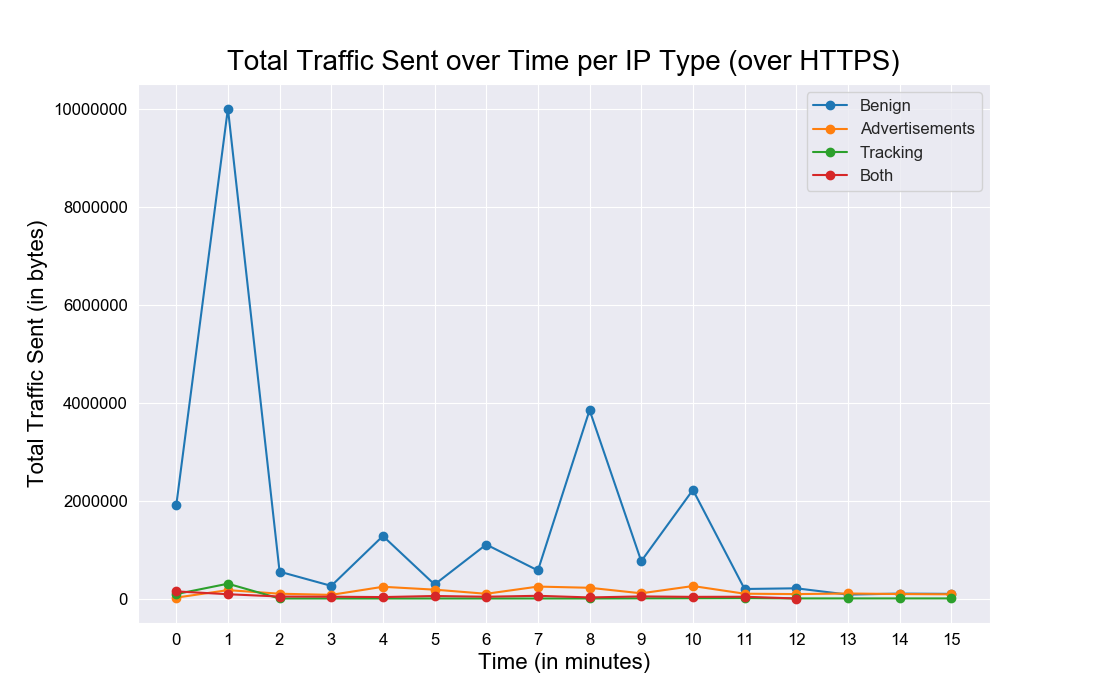
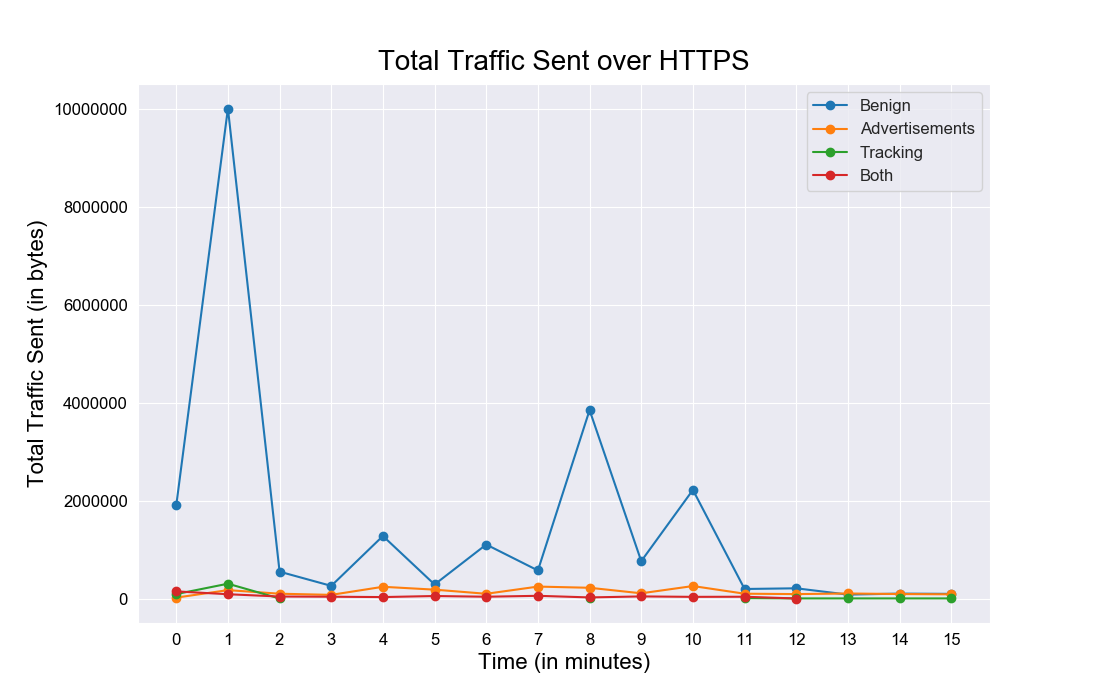
wow actually doing things

diff --git a/pandas_analysis_v2.py b/pandas_analysis_v2.py
@@ -18,6 +18,50 @@ label_font = {'fontname': 'Arial', 'size': '12', 'color': 'black', 'weight': 'no
 #                HTTPS STUFF               #
 ############################################
 
+def distribute_time(all_dfs):
+    all_times = []
+    for df in all_dfs:
+        all_times += list(df["Time"])
+    
+    all_times = sorted(list(dict.fromkeys(all_times)))
+    start = p.to_datetime(min(all_times))
+    end = p.to_datetime(max(all_times))
+    times = []
+    while(start <= end):
+        times.append(start.strftime("%H:%M"))
+        start = start + p.Timedelta(minutes=1)
+
+    time_range = p.DataFrame({'Time': times})
+    cleaned = []
+    for frame in all_dfs:
+        clean = p.concat([time_range, frame], join="outer", sort=False)
+        clean.drop_duplicates(subset=['Time'], keep='last', inplace=True)
+        clean.sort_values(by=['Time'], inplace = True)
+        clean = clean.reset_index().drop('index', axis=1)
+        cleaned.append(clean)
+    return cleaned
+
+def get_all_dfs(dataset, column):
+    service_types = list(dataset[column].index.levels[0])
+    all_dfs   = []
+    if 'benign' in service_types:
+        benign = dataset[column]['benign'].reset_index().rename(columns={
+            column: "Benign"})
+        all_dfs.append(benign)
+    if 'ads' in service_types:
+        ads = dataset[column]['ads'].reset_index().rename(
+            columns={column: "Advertisements"})
+        all_dfs.append(ads)
+    if 'tracking' in service_types:
+        tracking = dataset[column]['tracking'].reset_index().rename(columns={
+            column: "Tracking"})
+        all_dfs.append(tracking)
+    if 'ads,tracking' in service_types:
+        both = dataset[column]['ads,tracking'].reset_index().rename(columns={
+            column: "Both"})
+        all_dfs.append(both)
+    return all_dfs
+
 def ips_over_time(path, sheet, app_name):
     df = p.read_excel(path, index_col=None, sheet_name=sheet)
     df['timestamp'] = p.to_datetime(df['timestamp'], unit='s')
@@ -30,30 +74,19 @@ def ips_over_time(path, sheet, app_name):
         dataset = dataset.to_frame()
 
         fig, ax = plt.subplots(figsize=(11, 7))
-
-        benign = dataset[column]['benign'].reset_index().rename(columns={
-            column: "Benign"})
-        ax.plot(benign["Time"], benign["Benign"], '-o')
-
-        ads = dataset[column]['ads'].reset_index().rename(
-            columns={column: "Advertisements"})
-        ax.plot(ads["Time"], ads["Advertisements"], '-o')
-
-        tracking = dataset[column]['tracking'].reset_index().rename(columns={
-            column: "Tracking"})
-        ax.plot(tracking["Time"], tracking["Tracking"], '-o')
-
         service_types = list(dataset[column].index.levels[0])
-        if 'ads,tracking' in service_types:
-            both = dataset[column]['ads,tracking'].reset_index().rename(columns={
-                column: "Both"})
-            ax.plot(both["Time"], both["Both"], '-o')
+        all_dfs = get_all_dfs(dataset, column)
+        cleaned = distribute_time(all_dfs)
+        for frame in cleaned:
+            type = frame[frame.columns[1]].name
+            ax.plot(frame['Time'], frame[type], '-o')
 
         ax.set_xticklabels(range(0, 16))
-        plt.xticks(np.arange(len(benign["Time"])), **label_font)
+        # plt.xticks(np.arange(len(benign["Time"])), **label_font)
+        plt.xticks(**label_font)
         plt.yticks(**label_font)
         plt.title(
-            "Total Number of Unique IP Requests over Time over HTTPS", **title_font)
+            "Total Number of Unique IP Requests over HTTPS", **title_font)
         plt.xlabel("Time (in minutes)", **axis_font)
         plt.ylabel("Total Number of Unique IP Connections", **axis_font)
         ax.yaxis.set_major_formatter(plt.FormatStrFormatter('%d'))
@@ -74,25 +107,16 @@ def frames_over_time(path, sheet, app_name):
         column = 'frame size'
 
         fig, ax = plt.subplots(figsize=(11, 7))
-
-        benign = dataset[column]['benign'].reset_index().rename(columns={column: "Benign"})
-        ax.plot(benign["Time"], benign["Benign"], '-o')
-
-        ads = dataset[column]['ads'].reset_index().rename(columns={column: "Advertisements"})
-        ax.plot(ads["Time"], ads["Advertisements"], '-o')
-
-        tracking = dataset[column]['tracking'].reset_index().rename(columns={column: "Tracking"})
-        ax.plot(tracking["Time"], tracking["Tracking"], '-o')
-
-        service_types = list(dataset[column].index.levels[0])
-        if 'ads,tracking' in service_types:
-            both = dataset[column]['ads,tracking'].reset_index().rename(columns={column: "Both"})
-            ax.plot(both["Time"], both["Both"], '-o')
+        all_dfs = get_all_dfs(dataset, column)
+        cleaned = distribute_time(all_dfs)
+        for frame in cleaned:
+            type = frame[frame.columns[1]].name
+            ax.plot(frame['Time'], frame[type], '-o')
 
         ax.set_xticklabels(range(0,16))
-        plt.xticks(np.arange(len(benign["Time"])), **label_font)
+        plt.xticks(**label_font)
         plt.yticks(**label_font)
-        plt.title("Total Traffic Sent over Time per IP Type (over HTTPS)", **title_font)
+        plt.title("Total Traffic Sent over HTTPS", **title_font)
         plt.xlabel("Time (in minutes)", **axis_font)
         plt.ylabel("Total Traffic Sent (in bytes)", **axis_font)
         ax.yaxis.set_major_formatter(plt.FormatStrFormatter('%d'))
@@ -117,64 +141,26 @@ def domains_over_time(path, sheet, app_name):
 
         fig, ax = plt.subplots(figsize=(11, 7))
         service_types = list(dataset[column].index.levels[0])
-        all_times = []
-        all_dfs   = []
-
-        if 'benign' in service_types:
-            benign = dataset[column]['benign'].reset_index().rename(columns={
-                column: "Benign"})
-            all_dfs.append(benign)
-            all_times += list(benign["Time"])
-
-        if 'ads' in service_types:
-            ads = dataset[column]['ads'].reset_index().rename(
-                columns={column: "Advertisements"})
-            all_dfs.append(ads)
-            all_times += list(ads["Time"])
-
-        if 'tracking' in service_types:
-            tracking = dataset[column]['tracking'].reset_index().rename(columns={
-                column: "Tracking"})
-            all_dfs.append(tracking)
-            all_times += list(tracking["Time"])
-
-        if 'ads,tracking' in service_types:
-            both = dataset[column]['ads,tracking'].reset_index().rename(columns={
-                column: "Both"})
-            all_dfs.append(both)
-            all_times += list(both["Time"])
-        
-        all_times = sorted(list(dict.fromkeys(all_times)))
-        start = p.to_datetime(min(all_times))
-        end = p.to_datetime(max(all_times))
-        times = []
-        while(start <= end):
-            times.append(start.strftime("%H:%M"))
-            start = start + p.Timedelta(minutes=1)
-
-        time_range = p.DataFrame({'Time': times})
-
-        for frame in all_dfs:
-            clean = p.concat([time_range, frame], join="outer", sort=False)
+        all_dfs = get_all_dfs(dataset, column)
+        cleaned = distribute_time(all_dfs)
+        for frame in cleaned:
             type = frame[frame.columns[1]].name
-            ax.plot(clean['Time'], clean[type], '-o')
+            ax.plot(frame['Time'], frame[type], '-o')
 
         ax.set_xticklabels(range(0, 16))
-        plt.xticks(np.arange(len(time_range)), **label_font)
+        # plt.xticks(np.arange(len(cleaned[0]['Time'])), **label_font)
+        plt.xticks(**label_font)
         plt.yticks(**label_font)
-        plt.title(
-            "Total Traffic Sent over Time per IP Type (over HTTPS)", **title_font)
+        plt.title("Total Domain Requests/Responses over HTTP", **title_font)
         plt.xlabel("Time (in minutes)", **axis_font)
-        plt.ylabel("Total Traffic Sent (in bytes)", **axis_font)
+        plt.ylabel("Total Number of Domains", **axis_font)
         ax.yaxis.set_major_formatter(plt.FormatStrFormatter('%d'))
         plt.legend(fontsize=12)
 
-
     create_graph(df)
-    plt.show()
+    plt.savefig("./graphs/v2/http_domain_number_(" + app_name + ").png")
 
 
-# ips_over_time("./results/new/games/Pandas/io.voodoo.paper2.apk.xlsx", "HTTPS", "io.voodoo.paper2.apk")
-# frames_over_time("./results/new/games/Pandas/io.voodoo.paper2.apk.xlsx", "HTTPS", "io.voodoo.paper2.apk")
-
+ips_over_time("./results/new/games/Pandas/io.voodoo.paper2.apk.xlsx", "HTTPS", "io.voodoo.paper2.apk")
+frames_over_time("./results/new/games/Pandas/io.voodoo.paper2.apk.xlsx", "HTTPS", "io.voodoo.paper2.apk")
 domains_over_time("./results/new/games/Pandas/io.voodoo.paper2.apk.xlsx", "HTTP", "io.voodoo.paper2.apk")
